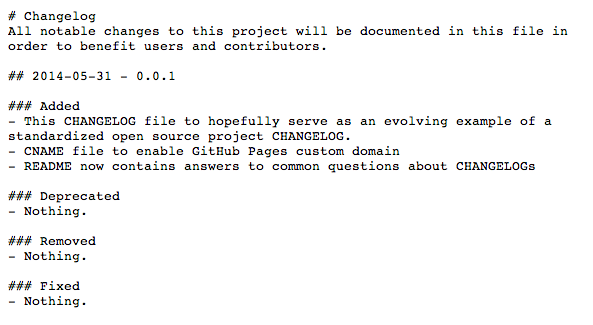
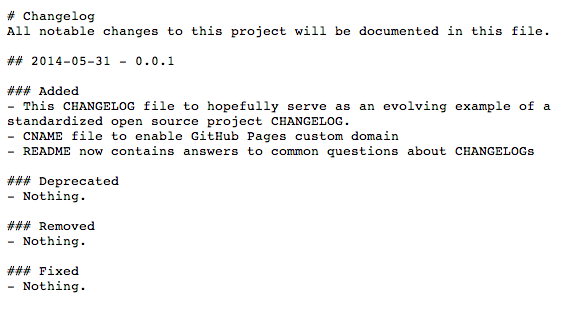
Shorten intro paragraph of example CHANGELOG.

diff --git a/CHANGELOG.md b/CHANGELOG.md
@@ -1,5 +1,5 @@
 # Changelog
-All notable changes to this project will be documented in this file in order to benefit users and contributors.
+All notable changes to this project will be documented in this file.
 
 ## 2014-05-31 - 0.0.1
 
